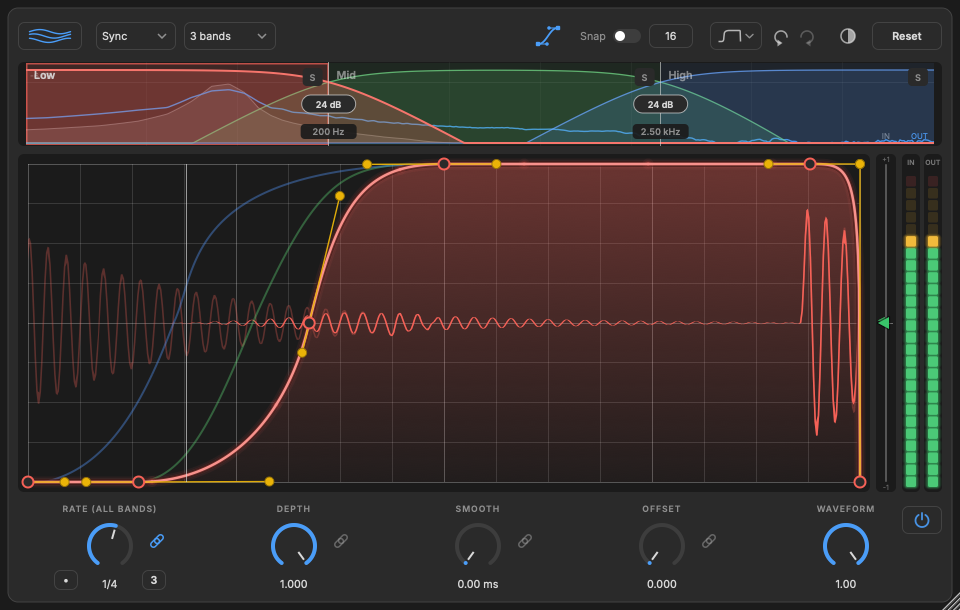
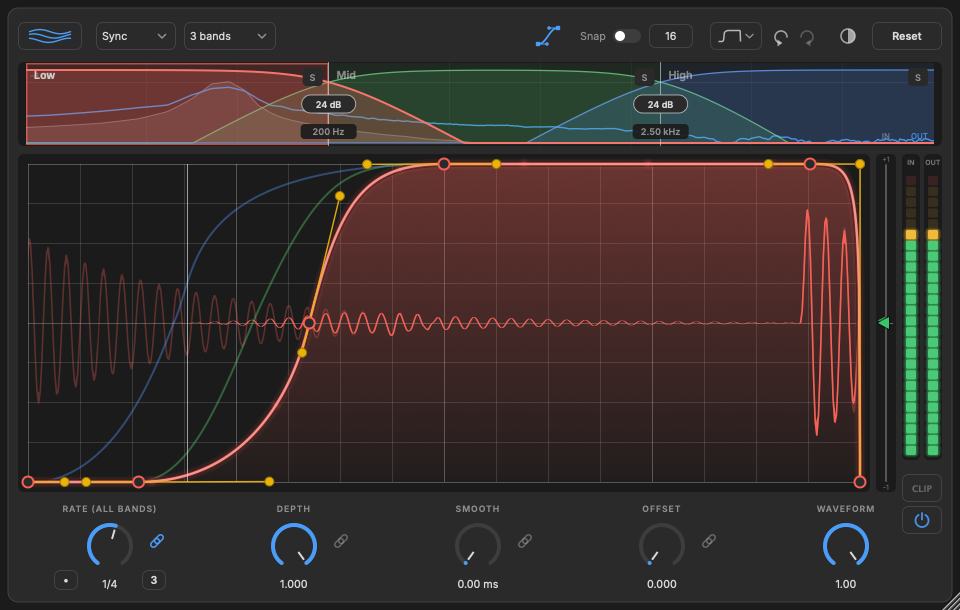
Multiband output clipper (Off / Soft / Hard), bypass button moved below it; clipper tests; fuzz test accounts for bypass

diff --git a/tests/audio_test.cpp b/tests/audio_test.cpp
@@ -413,6 +413,38 @@ static void testBypass()
     }
 }
 
+static void testClipper()
+{
+    section("3e. Output clipper (multiband)");
+    Stereo loud { Sig(9600, 0.f), Sig(9600, 0.f) };
+    for (size_t i = 0; i < 9600; ++i) loud[0][i] = loud[1][i] = 1.8f * std::sin((float) i * 0.05f);   // peaks well past 0 dB
+    Stereo quiet { Sig(9600, 0.f), Sig(9600, 0.f) };
+    for (size_t i = 0; i < 9600; ++i) quiet[0][i] = quiet[1][i] = 0.5f * std::sin((float) i * 0.05f);
+    auto peak = [](const Stereo& s) { float m = 0.f; for (auto v : s[0]) m = std::max(m, std::abs(v)); return m; };
+    for (int mode : { 0, 1, 2 })
+    {
+        Rig r; r.param("mb", 1.f); r.param("depth", 0.f); r.param("clip", (float) mode);
+        r.render(loud);
+        const float pk = peak(r.render(loud));
+        if (mode == 0) check(pk > 1.2f, "clipper off: peaks pass through", fmt("peak %.2f", pk));
+        else check(pk <= 1.0001f, mode == 1 ? "soft clipper: output never exceeds 0 dB" : "hard clipper: output never exceeds 0 dB", fmt("peak %.4f", pk));
+    }
+    {
+        Rig r; r.param("mb", 1.f); r.param("clip", 1.f);
+        Rig o; o.param("mb", 1.f);
+        r.render(quiet); o.render(quiet);
+        const auto a = r.render(quiet), b = o.render(quiet);
+        float d = 0.f; for (size_t i = 0; i < a[0].size(); ++i) d = std::max(d, std::abs(a[0][i] - b[0][i]));
+        check(d == 0.f, "soft clipper leaves quiet signals untouched", fmt("max diff %.1e", d));
+    }
+    {
+        Rig r; r.param("mb", 0.f); r.param("depth", 0.f); r.param("clip", 2.f);
+        r.render(loud);
+        const float pk = peak(r.render(loud));
+        check(pk > 1.2f, "clipper only acts in multiband mode", fmt("peak %.2f", pk));
+    }
+}
+
 // ---------------------------------------------------------------------------------------------
 // 4. Block-size independence
 // ---------------------------------------------------------------------------------------------
@@ -633,7 +665,7 @@ static void testFuzz()
         long settledSamples = 0; // samples since the signal path last changed (a switch makes a short dip)
         auto structure = [&] {
             auto v = [&](const char* id) { return (int) r.p.apvts.getRawParameterValue(id)->load(); };
-            return v("mb") * 1000 + v("mbBands") * 100 + v("slopeLow") * 10 + v("slopeHigh");
+            return v("bypass") * 10000 + v("mb") * 1000 + v("mbBands") * 100 + v("slopeLow") * 10 + v("slopeHigh");   // bypass counts: while bypassed the path switch is paused, so un-bypassing fades through the old path
         };
         int lastStructure = structure();
         for (int b = 0; b < 3000; ++b)
@@ -953,6 +985,7 @@ int main()
     testMeters();
     testSpectrum();
     testBypass();
+    testClipper();
     testBlockSizes();
     testSmoothingSlew();
     testClicks();

diff --git a/Source/PluginProcessor.cpp b/Source/PluginProcessor.cpp
@@ -42,6 +42,7 @@ juce::AudioProcessorValueTreeState::ParameterLayout FreeLfoProcessor::createLayo
     // ---- Multiband tab ----
     l.add(std::make_unique<AudioParameterBool>(ParameterID { "mb", 1 }, "Multiband", false));
     l.add(std::make_unique<AudioParameterBool>(ParameterID { "bypass", 1 }, "Bypass", false));
+    l.add(std::make_unique<AudioParameterChoice>(ParameterID { "clip", 1 }, "Output Clipper", StringArray { "Off", "Soft", "Hard" }, 0));
     l.add(std::make_unique<AudioParameterChoice>(ParameterID { "mbBands", 1 }, "Bands", StringArray { "2 bands", "3 bands" }, 1));
     l.add(std::make_unique<AudioParameterFloat>(ParameterID { "xLow", 1 }, "Low Split",
                                                 NormalisableRange<float>(40.f, 12000.f, 1.f, 0.3f), 200.f));
@@ -112,6 +113,7 @@ FreeLfoProcessor::FreeLfoProcessor()
 
     pMb = apvts.getRawParameterValue("mb");
     pBypass = apvts.getRawParameterValue("bypass");
+    pClip = apvts.getRawParameterValue("clip");
     bypassParam = dynamic_cast<juce::RangedAudioParameter*>(apvts.getParameter("bypass"));
     pBands = apvts.getRawParameterValue("mbBands");
     pXLow = apvts.getRawParameterValue("xLow");
@@ -340,6 +342,7 @@ void FreeLfoProcessor::processActive(juce::AudioBuffer<float>& buffer, juce::Mid
     auto mainBuf = getBusBuffer(buffer, false, 0);
     const int numChannels = mainBuf.getNumChannels();
     const double sr = getSampleRate();
+    const int clipMode = pClip != nullptr ? juce::roundToInt(pClip->load()) : 0;
 
     const float* scData[2] = { nullptr, nullptr };
     int scChannels = 0;
@@ -432,6 +435,21 @@ void FreeLfoProcessor::processActive(juce::AudioBuffer<float>& buffer, juce::Mid
 
         if (g0 != 1.f || g1 != 1.f)
             for (int ch = 0; ch < numChannels; ++ch) view.applyGainRamp(ch, 0, seg, g0, g1);
+
+        // Optional output clipper (multiband only: re-summing the bands can push the peaks past the input's)
+        if (clipMode != 0 && applied.multiband)
+            for (int ch = 0; ch < numChannels; ++ch)
+            {
+                float* d = view.getWritePointer(ch);
+                if (clipMode == 2)
+                    for (int i = 0; i < seg; ++i) d[i] = juce::jlimit(-1.f, 1.f, d[i]);
+                else   // soft: linear up to 0.8, then a tanh shoulder that approaches 1.0 smoothly
+                    for (int i = 0; i < seg; ++i)
+                    {
+                        const float a = std::abs(d[i]);
+                        if (a > 0.8f) d[i] = std::copysign(0.8f + 0.2f * std::tanh((a - 0.8f) * 5.f), d[i]);
+                    }
+            }
 
         if (fadeOutLeft > 0)
         {

diff --git a/Source/PluginEditor.cpp b/Source/PluginEditor.cpp
@@ -74,6 +74,7 @@ FreeLfoEditor::FreeLfoEditor(FreeLfoProcessor& p)
     addAndMakeVisible(inMeter);
     addAndMakeVisible(outMeter);
     addAndMakeVisible(mbPanel);
+    addAndMakeVisible(clipBtn);
     addAndMakeVisible(bypassBtn);   // after the panel, so it sits on top of it
     addChildComponent(mbPanel.modeBox);    // the multiband tab's Sync/Hz and band-count dropdowns sit in this header, like the single tab's
     addChildComponent(mbPanel.bandsBox);
@@ -139,6 +140,12 @@ FreeLfoEditor::FreeLfoEditor(FreeLfoProcessor& p)
 
     // Tabs: Single = the original one-curve LFO (bit-exact pass-through), Multiband = per-band curves
     bypassA = std::make_unique<BA>(proc.apvts, "bypass", bypassBtn);
+    {
+        auto* clipParam = proc.apvts.getParameter("clip");
+        clipA = std::make_unique<juce::ParameterAttachment>(*clipParam, [this](float v) { clipBtn.setMode(juce::roundToInt(v)); });
+        clipA->sendInitialUpdate();
+        clipBtn.onModeChange = [this](int m) { clipA->setValueAsCompleteGesture((float) m); };
+    }
     modeSwitch.onClick = [this] { setMultiband(!multibandOn()); };
     addAndMakeVisible(modeSwitch);
 
@@ -287,7 +294,10 @@ void FreeLfoEditor::resized()
     retrigger.setBounds(top.removeFromRight(toggleWidth("MIDI retrigger")));
 
     r.removeFromTop(8);
-    bypassBtn.setBounds(r.getRight() - 40, r.getBottom() - 92 + 6, 40, 28);   // under the IN / OUT meters, in both tabs
+    clipBtn.setVisible(mb);
+    clipBtn.setBounds(r.getRight() - 40, r.getBottom() - 92 + 6, 40, 28);   // multiband only, above the bypass button
+    clipBtn.toFront(false);
+    bypassBtn.setBounds(r.getRight() - 40, r.getBottom() - 92 + 6 + 32, 40, 28);   // under the IN / OUT meters, in both tabs
     bypassBtn.toFront(false);   // above the knob row of the single tab, which otherwise catches the clicks
     if (mb) { mbPanel.setBounds(r); return; }
 

diff --git a/Source/PaperLookAndFeel.h b/Source/PaperLookAndFeel.h
@@ -234,6 +234,44 @@ public:
     }
 };
 
+// Output clipper: one button cycling Off / Soft / Hard. Dim while off, accent for soft, amber for hard.
+class ClipButton : public juce::Button
+{
+public:
+    ClipButton() : juce::Button("clip")
+    {
+        setMouseCursor(juce::MouseCursor::PointingHandCursor);
+        setTooltip("Output clipper (multiband): keeps the output from going past 0 dB.\nClick to cycle Off / Soft / Hard");
+    }
+    int mode() const { return state; }
+    void setMode(int m) { if (m != state) { state = m; repaint(); } }
+    std::function<void(int)> onModeChange;
+
+    void clicked() override
+    {
+        state = (state + 1) % 3;
+        repaint();
+        if (onModeChange) onModeChange(state);
+    }
+
+    void paintButton(juce::Graphics& g, bool hover, bool) override
+    {
+        const auto b = getLocalBounds().toFloat().reduced(0.5f);
+        const auto amber = juce::Colour(0xfff0b429);
+        const auto c = state == 0 ? paper::sub.withAlpha(hover ? 0.9f : 0.6f) : state == 1 ? paper::accent : amber;
+        g.setColour(state == 0 ? (hover ? paper::bg : paper::panel) : c.withAlpha(0.2f));
+        g.fillRoundedRectangle(b, 6.f);
+        g.setColour(state == 0 ? paper::line : c);
+        g.drawRoundedRectangle(b, 6.f, 1.f);
+        g.setColour(c);
+        g.setFont(juce::Font(juce::FontOptions(10.5f, juce::Font::bold)));
+        g.drawText(state == 0 ? "CLIP" : state == 1 ? "SOFT" : "HARD", getLocalBounds(), juce::Justification::centred);
+    }
+
+private:
+    int state = 0;
+};
+
 // A rotary knob you can also type into: double-click the knob (or choose it from the right-click menu) to enter an
 // exact value; right-click also resets to the default. (Cmd / Ctrl-click still resets, like any JUCE slider.)
 class Knob : public juce::Slider

diff --git a/tests/snapshot.cpp b/tests/snapshot.cpp
@@ -879,12 +879,21 @@ int main(int argc, char** argv)
             {
                 setParam(p, "mb", mbOn ? 1.f : 0.f);
                 juce::MessageManager::getInstance()->runDispatchLoopUntil(300);
-                juce::Component* hit = ed->getComponentAt(ed->getWidth() - 18 - 20, ed->getHeight() - 18 - 92 + 6 + 14);
+                juce::Component* hit = ed->getComponentAt(ed->getWidth() - 18 - 20, ed->getHeight() - 18 - 92 + 6 + 32 + 14);
                 std::printf("bypass click target (%s tab): %s (%s)\n", mbOn ? "multiband" : "single", hit != nullptr && dynamic_cast<juce::ToggleButton*>(hit) != nullptr ? "the bypass button" : "SOMETHING ELSE", hit != nullptr ? typeid(*hit).name() : "none");
             }
             setParam(p, "mb", 0.f);
             juce::MessageManager::getInstance()->runDispatchLoopUntil(300);
         }
+        setParam(p, "mb", 1.f);
+        setParam(p, "clip", 1.f);
+        juce::MessageManager::getInstance()->runDispatchLoopUntil(300);
+        save(ed->createComponentSnapshot(ed->getLocalBounds(), true, 1.0f), dir.getChildFile("clipper_soft.png"));
+        setParam(p, "clip", 2.f);
+        juce::MessageManager::getInstance()->runDispatchLoopUntil(300);
+        save(ed->createComponentSnapshot(ed->getLocalBounds(), true, 1.0f), dir.getChildFile("clipper_hard.png"));
+        setParam(p, "clip", 0.f);
+        setParam(p, "mb", 0.f);
         setParam(p, "bypass", 1.f);
         juce::MessageManager::getInstance()->runDispatchLoopUntil(300);
         save(ed->createComponentSnapshot(ed->getLocalBounds(), true, 1.0f), dir.getChildFile("bypass_on.png"));

diff --git a/Source/PluginProcessor.h b/Source/PluginProcessor.h
@@ -181,6 +181,7 @@ private:
     void processActive(juce::AudioBuffer<float>&, juce::MidiBuffer&);   // the real processing (processBlock adds the bypass crossfade)
     juce::RangedAudioParameter* bypassParam = nullptr;
     std::atomic<float>* pBypass = nullptr;
+    std::atomic<float>* pClip = nullptr;
     float bypassMix = 0.f;                // 0 = processed, 1 = dry; ramps over 10 ms so bypass never clicks
     juce::AudioBuffer<float> dryScratch;  // the dry copy during a bypass crossfade (sized in prepareToPlay)
     std::atomic<float> *pMb = nullptr, *pBands = nullptr, *pXLow = nullptr, *pXHigh = nullptr,

diff --git a/Source/PluginEditor.h b/Source/PluginEditor.h
@@ -35,6 +35,8 @@ private:
     juce::TooltipWindow tooltipWindow { this, 500 }; // the icon buttons explain themselves on hover
     juce::TextButton reset { "Reset" };
     ModeSwitchButton modeSwitch;   // Single <-> Multiband
+    ClipButton clipBtn;            // multiband only, above the bypass button
+    std::unique_ptr<juce::ParameterAttachment> clipA;
     BypassButton bypassBtn;        // under the IN / OUT meters
     juce::TextButton dotBtn { juce::String::fromUTF8("\xE2\x80\xA2") }, tripBtn { "3" }; // dotted / triplet, like Xfer's LFO Tool
     ThemeToggle themeBtn;

diff --git a/README.md b/README.md
@@ -51,6 +51,7 @@ It is an independent, from-scratch implementation inspired by the workflow of Xf
 - An optional sidechain input is drawn in amber: route a kick from another mixer channel into the plugin's sidechain and you see it against your curve (display only, it never changes the sound). Where the kick and the plugin's output are both loud at the same position in the cycle, that stretch is **hatched**: a conflict between the two. The output is measured after the ducking, so a spot where your curve really ducks under the kick is not marked. In Multiband the kick is split into the same bands, so each band is compared with the matching part of the kick (the lows against the kick's lows).
 - A thin **end-of-cycle meter** beside the curve shows where the output signal (the input after the plugin's ducking, -1 to +1, same scale as the scope) was at the last point of the cycle, right when the curve drops: the big arrow pointing at the curve is the newest cycle, the small ones the cycles before. An arrow near the centre line is safe (green); one far from it turns amber, then red, and means a bass note is still swinging when the gain falls, which is where clicks come from. Duck harder at the end of the curve, ease the fall, or add a little Smooth, and watch the arrow settle at the middle. Click the meter to show an **end-zone bar** next to the arrow (hidden by default, and remembered with the project): a thin bar that spans the lowest to the highest output level over the last 4% of the cycle (it grows at once and falls back slowly, and the arrow glides to each new value), to catch heavy ducking that happens just before the end: a long red bar means the signal is still loud while the gain drops, even if the arrow itself sits at the middle. In Multiband the meter follows the selected band.
 - **IN / OUT meters** on the right are analog-style stacks of squares (mostly green, then yellow, with one red square at the top that lights at about 0 dBFS), with a soft glow on the lit squares. They show the peak level going in and coming out. They are built for loud material: 26 squares, 1.5 dB apart in the top third, a fast fall (80 dB/s) and a red square that follows the signal like the rest, so they keep moving on a loud, pumping mix.
+- In the multiband view, a **CLIP** button above the bypass button (off by default) cycles an output clipper: Off, Soft (linear up to -2 dB, then a smooth shoulder) or Hard (flat at 0 dB). Re-summing the bands can push the output past the input's peaks, and this keeps it from going over 0 dB.
 - A **bypass** button (power icon) under the meters passes the audio through untouched, with a 10 ms crossfade so it never clicks, and no CPU use while it is bypassed. It is also the host's bypass: the host's own bypass button drives the same switch.
 - A grey line shows the **actual gain** after Depth, Smooth and Offset; the output waveform is the input multiplied by exactly that gain.
 - Light and dark themes (dark is the default, the choice is remembered).
@@ -93,6 +94,7 @@ Only the VST3 format is built (plus a standalone app for development). AU, AAX a
 | Drag a diamond (Simple mode) | Bend that segment through the point; double-click to straighten |
 | Drag the number next to **Snap** | Change the number of grid lines |
 | Wave icon (top left) | Switch between **Single** (one wave) and **Multiband** (three stacked waves); the icon shows the current mode |
+| CLIP button (multiband, above the power button) | Cycle the output clipper: Off / Soft / Hard |
 | Power button (under the meters) | Bypass |
 | Click the end-of-cycle meter | Show or hide the end-zone bar |
 | Half-moon button | Light / dark theme |
@@ -144,7 +146,7 @@ Everything below runs offline, without a DAW or a sound card. A small **fake DAW
 
 | Program | What it checks | How to run |
 |---|---|---|
-| `LfoAudioTest` | **134 audio checks**: bit-exact null at 100%, exact silence at 0%, transparency of every crossover slope, block-size independence, clicks on 24 kinds of parameter change, filter stability across 4 sample rates, NaN/Inf and zero-length blocks, a fuzz test that randomises every parameter and the transport, tempo accuracy at 130 bpm, Hz accuracy, MIDI restart, the sidechain bus, bypass (bit-exact, click-free, allocation-free), the peak meters and the spectrum analyser, state save/load, zero allocations on the audio thread, thread safety while the curve is edited, CPU worst cases and denormals | `build/LfoAudioTest_artefacts/Release/LfoAudioTest` |
+| `LfoAudioTest` | **139 audio checks**: bit-exact null at 100%, exact silence at 0%, transparency of every crossover slope, block-size independence, clicks on 24 kinds of parameter change, filter stability across 4 sample rates, NaN/Inf and zero-length blocks, a fuzz test that randomises every parameter and the transport, tempo accuracy at 130 bpm, Hz accuracy, MIDI restart, the sidechain bus, bypass (bit-exact, click-free, allocation-free), the output clipper, the peak meters and the spectrum analyser, state save/load, zero allocations on the audio thread, thread safety while the curve is edited, CPU worst cases and denormals | `build/LfoAudioTest_artefacts/Release/LfoAudioTest` |
 | `tests/envelope_test.cpp` | The curve model: Bezier evaluation, Simple-mode bends, conversions between the two, the default curves, saving and loading | `clang++ -std=c++17 tests/envelope_test.cpp -o envtest && ./envtest` |
 | `tests/crossover_test.cpp` | The crossover maths for all six slopes, mixed slopes, and the drawn response curves | `clang++ -std=c++17 tests/crossover_test.cpp -o xotest && ./xotest` |
 | `LfoBench` | CPU per block (including the bypassed and editor-open cases), plus quick null and multiband sanity checks | `build/LfoBench_artefacts/Release/LfoBench` |
